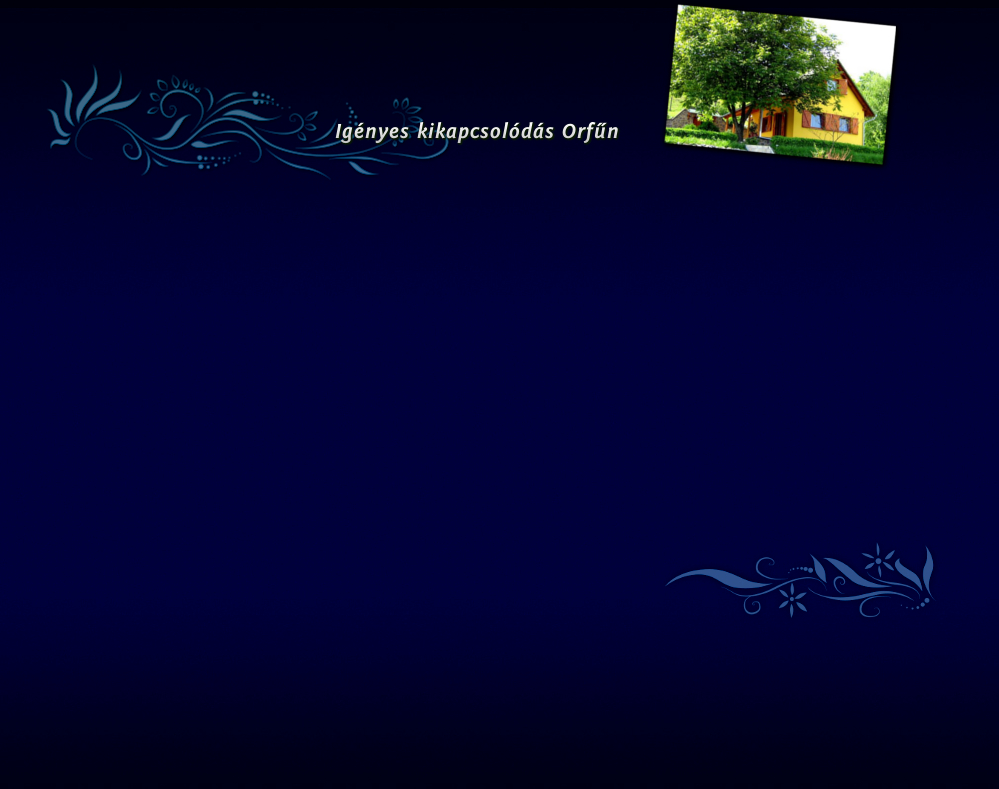
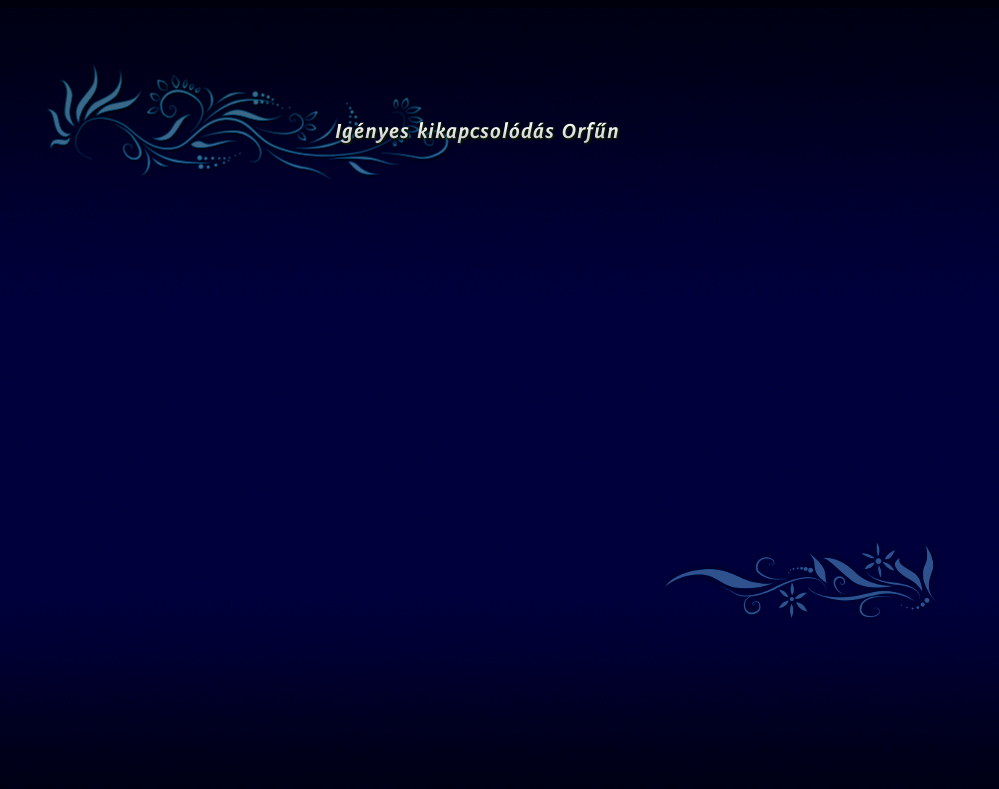
Facebook link to album

Changed region(s): [[0.6517, 0.0, 0.8999, 0.2129]]

diff --git a/index.html b/index.html
@@ -33,7 +33,7 @@
     <div class="body2">
 
       <div class=ribbon-wrapper" style="position: absolute; margin-right:30px; right:0px; width:120px">
-        <a href="http://platanapartman.atw.hu" target="_blank_"> 
+        <a href="http://platanapartman.atw.hu" target="_blank_">
           <div class="drawer"></div>
           <div class="ribbon"></div>
         </a>
@@ -45,6 +45,7 @@
           <h1>
             <a href="index.html" id="logo"> Diófa Vendégház </a>
           </h1>
+          <div class="fb-page" style="margin:5px; margin-left:65px;" data-href="https://www.facebook.com/diofavendeghaz.orfu" data-width="280" data-small-header="true" data-adapt-container-width="true" data-hide-cover="false" data-show-facepile="true"><div class="fb-xfbml-parse-ignore"><blockquote cite="https://www.facebook.com/diofavendeghaz.orfu"><a href="https://www.facebook.com/diofavendeghaz.orfu">Diófa Vendégház</a></blockquote></div></div>
         </header>
 
         <section id="content">
@@ -146,8 +147,7 @@
                 <li id="page_4">
                   <div class="text"> Képek </div>
                   <div class="cont">
-                    <div id="picasa-gallery"></div>
-                    <p style="text-align:center">Amennyiben nem jelennek meg a képek, kérjük látogassa meg közvetlenül <a href="https://picasaweb.google.com/110303743774124474877/DiofaVendeghaz" target="_blank">a vendégházról készült album</a>ot!</p>
+                    <div id="fb-root"></div><script>(function(d, s, id) {  var js, fjs = d.getElementsByTagName(s)[0];  if (d.getElementById(id)) return;  js = d.createElement(s); js.id = id;  js.src = "//connect.facebook.net/en_US/sdk.js#xfbml=1&version=v2.3";  fjs.parentNode.insertBefore(js, fjs);}(document, 'script', 'facebook-jssdk'));</script><div class="fb-post" data-href="https://www.facebook.com/media/set/?set=a.150056811748257.39831.116532321767373&amp;type=3" data-width="450"><div class="fb-xfbml-parse-ignore"><blockquote cite="https://www.facebook.com/media/set/?set=a.150056811748257.39831.116532321767373&amp;type=3">Posted by <a href="https://www.facebook.com/diofavendeghaz.orfu/">Diófa Vendégház</a> on&nbsp;<a href="https://www.facebook.com/media/set/?set=a.150056811748257.39831.116532321767373&amp;type=3">Wednesday, August 31, 2011</a></blockquote></div></div>
                   </div>
                 </li>
                 <li id="page_5">
@@ -181,9 +181,6 @@
               <a href="https://www.otpszepkartya.hu/" title="OTP Szépkártya-elfogadó hely" target="_blank">
                 <div class="szepkartya otp">OTP szépkártya-elfogadó hely</div>
               </a>
-            </div>
-            <div class="likebuttons">
-              <div class="fb-like" data-href="https://www.facebook.com/diofavendeghaz.orfu" data-layout="button_count" data-action="like" data-show-faces="true" data-share="false"></div>
             </div>
             <div>
               <a rel="nofollow" href="http://www.templatemonster.com/" target="_blank">Sablon</a> a TemplateMonster.com-ról
